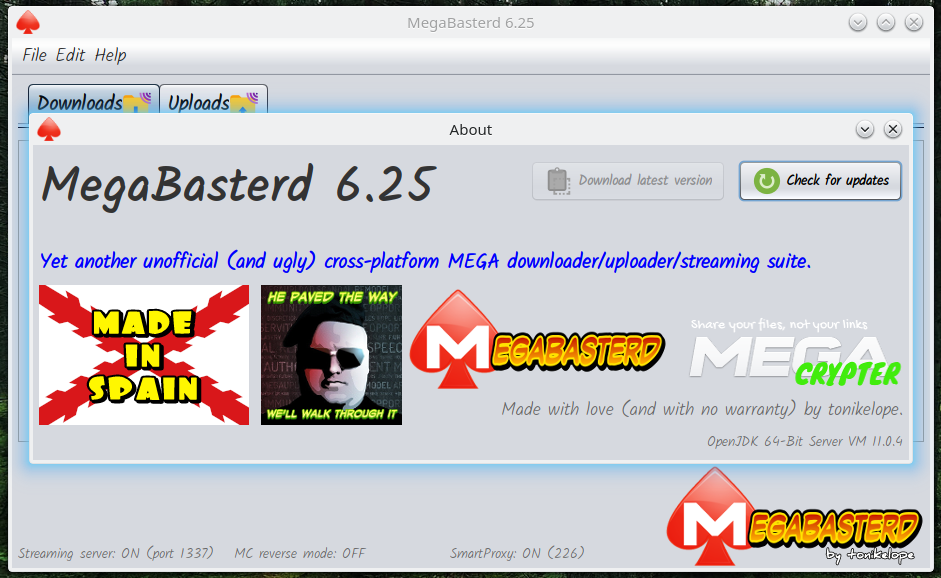
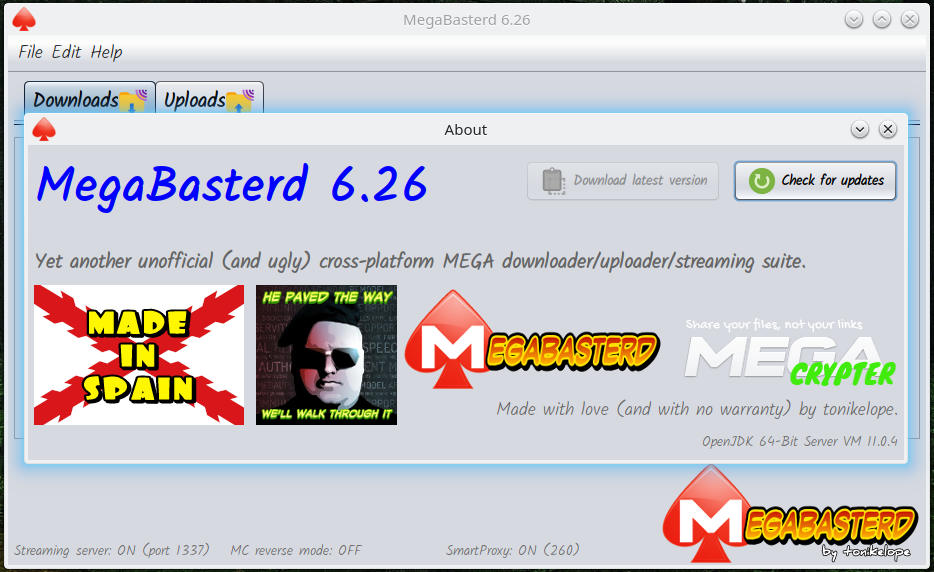
6.26
-Fix hide up/down queue buttons on download start

(cherry picked from commit 01dde107219c30eb1c31f1912bb30ce1f4647de9)

Changed region(s): [[0.0, 0.0, 1.0, 1.0], [0.4657, 0.208, 0.5278, 0.2378]]

diff --git a/src/main/java/com/tonikelope/megabasterd/SettingsDialog.java b/src/main/java/com/tonikelope/megabasterd/SettingsDialog.java
@@ -1458,27 +1458,6 @@ public final class SettingsDialog extends javax.swing.JDialog {
                         .addGroup(advanced_panelLayout.createParallelGroup(javax.swing.GroupLayout.Alignment.LEADING)
                             .addComponent(jSeparator1)
                             .addComponent(proxy_panel, javax.swing.GroupLayout.DEFAULT_SIZE, javax.swing.GroupLayout.DEFAULT_SIZE, Short.MAX_VALUE)
-                            .addGroup(advanced_panelLayout.createSequentialGroup()
-                                .addGroup(advanced_panelLayout.createParallelGroup(javax.swing.GroupLayout.Alignment.TRAILING)
-                                    .addGroup(javax.swing.GroupLayout.Alignment.LEADING, advanced_panelLayout.createSequentialGroup()
-                                        .addComponent(font_label)
-                                        .addPreferredGap(javax.swing.LayoutStyle.ComponentPlacement.RELATED)
-                                        .addComponent(font_combo, 0, javax.swing.GroupLayout.DEFAULT_SIZE, Short.MAX_VALUE))
-                                    .addGroup(javax.swing.GroupLayout.Alignment.LEADING, advanced_panelLayout.createSequentialGroup()
-                                        .addComponent(jLabel2)
-                                        .addPreferredGap(javax.swing.LayoutStyle.ComponentPlacement.RELATED)
-                                        .addComponent(language_combo, 0, javax.swing.GroupLayout.DEFAULT_SIZE, Short.MAX_VALUE)))
-                                .addGap(18, 18, 18)
-                                .addGroup(advanced_panelLayout.createParallelGroup(javax.swing.GroupLayout.Alignment.LEADING, false)
-                                    .addGroup(advanced_panelLayout.createSequentialGroup()
-                                        .addComponent(import_settings_button)
-                                        .addGap(18, 18, 18)
-                                        .addComponent(export_settings_button))
-                                    .addComponent(jButton1, javax.swing.GroupLayout.DEFAULT_SIZE, javax.swing.GroupLayout.DEFAULT_SIZE, Short.MAX_VALUE)))
-                            .addGroup(advanced_panelLayout.createSequentialGroup()
-                                .addComponent(zoom_label)
-                                .addPreferredGap(javax.swing.LayoutStyle.ComponentPlacement.RELATED)
-                                .addComponent(zoom_spinner, javax.swing.GroupLayout.PREFERRED_SIZE, 100, javax.swing.GroupLayout.PREFERRED_SIZE))
                             .addComponent(start_frozen_checkbox)
                             .addComponent(custom_chunks_dir_checkbox)
                             .addGroup(advanced_panelLayout.createSequentialGroup()
@@ -1486,7 +1465,29 @@ public final class SettingsDialog extends javax.swing.JDialog {
                                 .addPreferredGap(javax.swing.LayoutStyle.ComponentPlacement.RELATED)
                                 .addComponent(custom_chunks_dir_current_label))
                             .addComponent(jSeparator15)
-                            .addComponent(jSeparator12))
+                            .addComponent(jSeparator12)
+                            .addGroup(advanced_panelLayout.createSequentialGroup()
+                                .addGroup(advanced_panelLayout.createParallelGroup(javax.swing.GroupLayout.Alignment.LEADING)
+                                    .addGroup(advanced_panelLayout.createParallelGroup(javax.swing.GroupLayout.Alignment.TRAILING, false)
+                                        .addGroup(javax.swing.GroupLayout.Alignment.LEADING, advanced_panelLayout.createSequentialGroup()
+                                            .addComponent(font_label)
+                                            .addPreferredGap(javax.swing.LayoutStyle.ComponentPlacement.RELATED)
+                                            .addComponent(font_combo, javax.swing.GroupLayout.PREFERRED_SIZE, 400, javax.swing.GroupLayout.PREFERRED_SIZE))
+                                        .addGroup(javax.swing.GroupLayout.Alignment.LEADING, advanced_panelLayout.createSequentialGroup()
+                                            .addComponent(jLabel2)
+                                            .addPreferredGap(javax.swing.LayoutStyle.ComponentPlacement.RELATED)
+                                            .addComponent(language_combo, 0, javax.swing.GroupLayout.DEFAULT_SIZE, Short.MAX_VALUE)))
+                                    .addGroup(advanced_panelLayout.createSequentialGroup()
+                                        .addComponent(zoom_label)
+                                        .addPreferredGap(javax.swing.LayoutStyle.ComponentPlacement.RELATED)
+                                        .addComponent(zoom_spinner, javax.swing.GroupLayout.PREFERRED_SIZE, 100, javax.swing.GroupLayout.PREFERRED_SIZE)))
+                                .addPreferredGap(javax.swing.LayoutStyle.ComponentPlacement.RELATED, 52, Short.MAX_VALUE)
+                                .addGroup(advanced_panelLayout.createParallelGroup(javax.swing.GroupLayout.Alignment.LEADING)
+                                    .addGroup(javax.swing.GroupLayout.Alignment.TRAILING, advanced_panelLayout.createSequentialGroup()
+                                        .addComponent(import_settings_button)
+                                        .addGap(18, 18, 18)
+                                        .addComponent(export_settings_button))
+                                    .addComponent(jButton1, javax.swing.GroupLayout.Alignment.TRAILING, javax.swing.GroupLayout.PREFERRED_SIZE, 523, javax.swing.GroupLayout.PREFERRED_SIZE))))
                         .addContainerGap())))
         );
         advanced_panelLayout.setVerticalGroup(
@@ -1499,15 +1500,17 @@ public final class SettingsDialog extends javax.swing.JDialog {
                     .addComponent(import_settings_button)
                     .addComponent(export_settings_button))
                 .addPreferredGap(javax.swing.LayoutStyle.ComponentPlacement.RELATED)
-                .addGroup(advanced_panelLayout.createParallelGroup(javax.swing.GroupLayout.Alignment.BASELINE)
-                    .addComponent(zoom_label)
-                    .addComponent(zoom_spinner, javax.swing.GroupLayout.PREFERRED_SIZE, javax.swing.GroupLayout.DEFAULT_SIZE, javax.swing.GroupLayout.PREFERRED_SIZE))
+                .addGroup(advanced_panelLayout.createParallelGroup(javax.swing.GroupLayout.Alignment.LEADING)
+                    .addGroup(advanced_panelLayout.createSequentialGroup()
+                        .addGroup(advanced_panelLayout.createParallelGroup(javax.swing.GroupLayout.Alignment.BASELINE)
+                            .addComponent(zoom_label)
+                            .addComponent(zoom_spinner, javax.swing.GroupLayout.PREFERRED_SIZE, javax.swing.GroupLayout.DEFAULT_SIZE, javax.swing.GroupLayout.PREFERRED_SIZE))
+                        .addPreferredGap(javax.swing.LayoutStyle.ComponentPlacement.RELATED)
+                        .addGroup(advanced_panelLayout.createParallelGroup(javax.swing.GroupLayout.Alignment.BASELINE)
+                            .addComponent(jLabel2)
+                            .addComponent(language_combo, javax.swing.GroupLayout.PREFERRED_SIZE, javax.swing.GroupLayout.DEFAULT_SIZE, javax.swing.GroupLayout.PREFERRED_SIZE)))
+                    .addComponent(jButton1, javax.swing.GroupLayout.Alignment.TRAILING))
                 .addPreferredGap(javax.swing.LayoutStyle.ComponentPlacement.RELATED)
-                .addGroup(advanced_panelLayout.createParallelGroup(javax.swing.GroupLayout.Alignment.BASELINE)
-                    .addComponent(jLabel2)
-                    .addComponent(language_combo, javax.swing.GroupLayout.PREFERRED_SIZE, javax.swing.GroupLayout.DEFAULT_SIZE, javax.swing.GroupLayout.PREFERRED_SIZE)
-                    .addComponent(jButton1))
-                .addPreferredGap(javax.swing.LayoutStyle.ComponentPlacement.UNRELATED)
                 .addComponent(jSeparator1, javax.swing.GroupLayout.PREFERRED_SIZE, 8, javax.swing.GroupLayout.PREFERRED_SIZE)
                 .addPreferredGap(javax.swing.LayoutStyle.ComponentPlacement.RELATED)
                 .addComponent(custom_chunks_dir_checkbox)

diff --git a/src/main/java/com/tonikelope/megabasterd/Download.java b/src/main/java/com/tonikelope/megabasterd/Download.java
@@ -516,6 +516,8 @@ public final class Download implements Transference, Runnable, SecureSingleThrea
                 new Runnable() {
             @Override
             public void run() {
+                getView().getQueue_down_button().setVisible(false);
+                getView().getQueue_up_button().setVisible(false);
                 getView().getClose_button().setVisible(false);
                 getView().getCopy_link_button().setVisible(false);
                 getView().getOpen_folder_button().setVisible(false);

diff --git a/src/main/java/com/tonikelope/megabasterd/MainPanel.java b/src/main/java/com/tonikelope/megabasterd/MainPanel.java
@@ -50,7 +50,7 @@ import javax.swing.UIManager;
  */
 public final class MainPanel {
 
-    public static final String VERSION = "6.25";
+    public static final String VERSION = "6.26";
     public static final int THROTTLE_SLICE_SIZE = 16 * 1024;
     public static final int DEFAULT_BYTE_BUFFER_SIZE = 16 * 1024;
     public static final int STREAMER_PORT = 1337;
